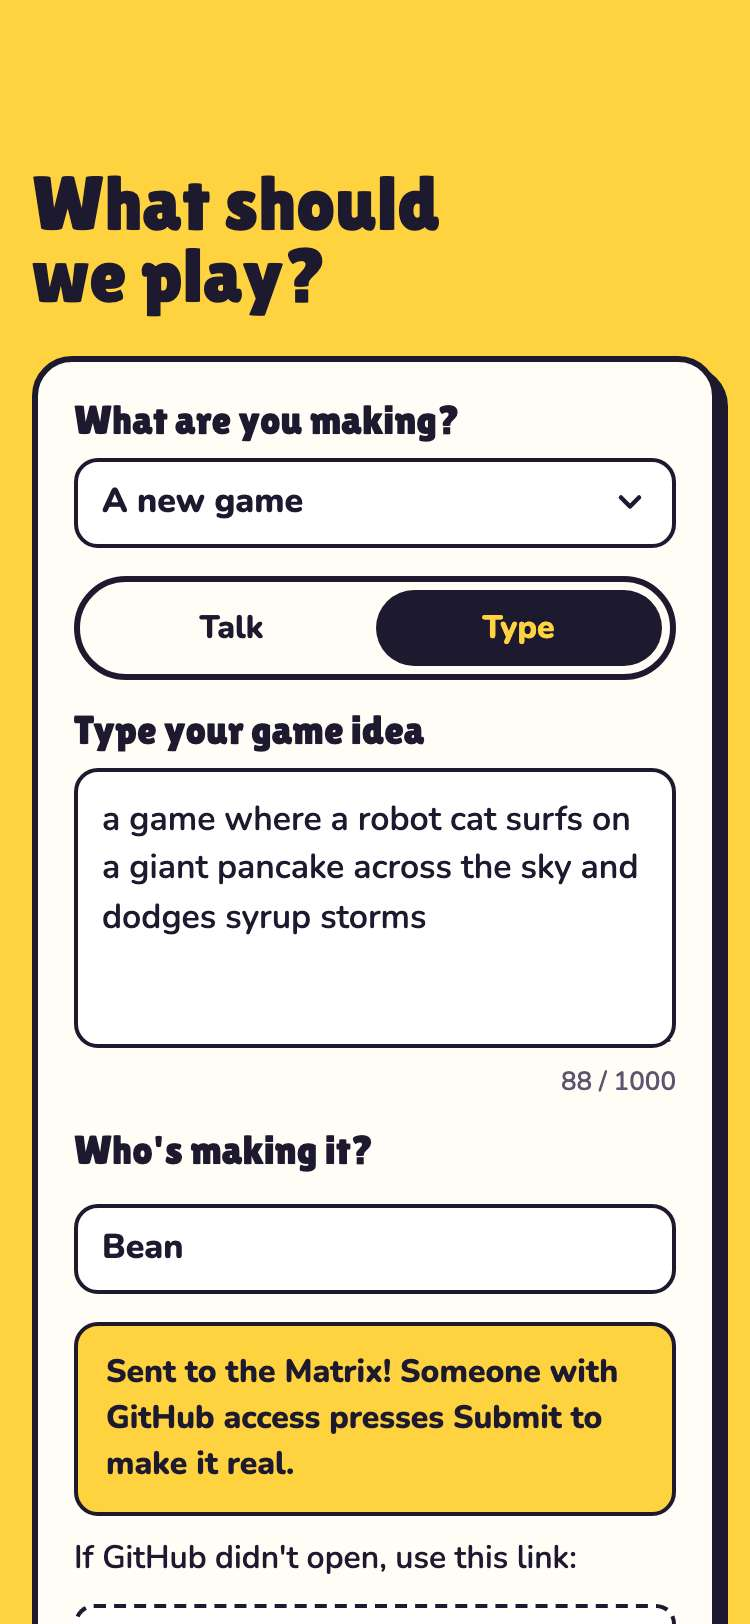
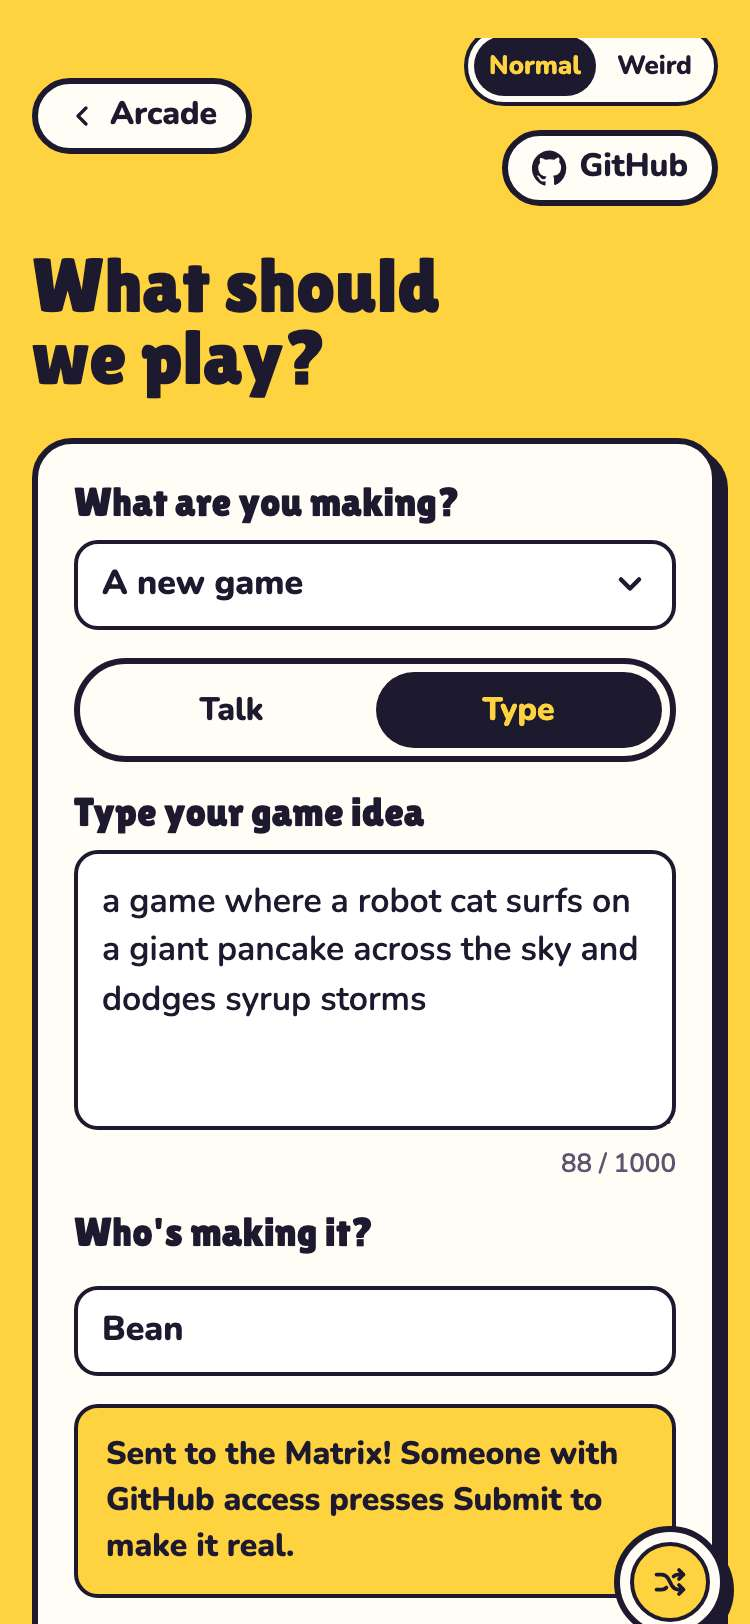
Turn on the idea intake, with family codes off for now

diff --git a/evidence/82-intake-page/index.html b/evidence/82-intake-page/index.html
@@ -14,13 +14,15 @@ h1 { font-size: 24px; margin: 0 0 4px; } h2 { font-size: 19px; margin: 28px 0 6p
 .pair img.desktop { width: 640px; } .pair img.phone { width: 220px; }
 </style></head><body>
 <h1>Evidence: 82-intake-page</h1>
-<p class="head">PASS: 7 of 7 checks pass at desktop and phone widths.</p>
-<p class="meta">Against the local server (python3 -m http.server) on this branch, from commit 80cfec5, 2026-10-25 01:54 UTC. Spec: tests/evidence/82-intake-page.spec.mjs.</p>
+<p class="head">PASS: 9 of 9 checks pass at desktop and phone widths.</p>
+<p class="meta">Against the local server (python3 -m http.server) on this branch, from commit b2feae2, 2026-10-25 02:38 UTC. Spec: tests/evidence/82-intake-page.spec.mjs.</p>
 <section><h2>1. with a family code, Send posts the idea and the code, and it shows as Just sent</h2><p><span class="s ok">Desktop 1280: pass</span> <span class="s ok">Phone 375: pass</span></p><ul><li>desktop: body sent: {&quot;idea&quot;:&quot;&lt;idea&gt;&quot;,&quot;maker&quot;:&quot;Bean&quot;,&quot;told_by&quot;:&quot;typing&quot;,&quot;code&quot;:&quot;test-family-code-1&quot;}</li><li>phone: body sent: {&quot;idea&quot;:&quot;&lt;idea&gt;&quot;,&quot;maker&quot;:&quot;Bean&quot;,&quot;told_by&quot;:&quot;typing&quot;,&quot;code&quot;:&quot;test-family-code-1&quot;}</li></ul><div class="pair"><a href="family-code-desktop.jpg"><img class="desktop" src="family-code-desktop.jpg" alt="with a family code, Send posts the idea and the code, and it shows as Just sent: family-code-desktop.jpg" loading="lazy"></a><a href="family-code-phone.jpg"><img class="phone" src="family-code-phone.jpg" alt="with a family code, Send posts the idea and the code, and it shows as Just sent: family-code-phone.jpg" loading="lazy"></a></div><div class="pair"><a href="sent-known-desktop.jpg"><img class="desktop" src="sent-known-desktop.jpg" alt="with a family code, Send posts the idea and the code, and it shows as Just sent: sent-known-desktop.jpg" loading="lazy"></a><a href="sent-known-phone.jpg"><img class="phone" src="sent-known-phone.jpg" alt="with a family code, Send posts the idea and the code, and it shows as Just sent: sent-known-phone.jpg" loading="lazy"></a></div></section>
 <section><h2>2. the family code is remembered on this device until a grown-up forgets it</h2><p><span class="s ok">Desktop 1280: pass</span> <span class="s ok">Phone 375: pass</span></p><ul><li>desktop: saved as gameon.arcade.familyCode; still there after a reload</li><li>phone: saved as gameon.arcade.familyCode; still there after a reload</li></ul><div class="pair"><a href="code-remembered-desktop.jpg"><img class="desktop" src="code-remembered-desktop.jpg" alt="the family code is remembered on this device until a grown-up forgets it: code-remembered-desktop.jpg" loading="lazy"></a><a href="code-remembered-phone.jpg"><img class="phone" src="code-remembered-phone.jpg" alt="the family code is remembered on this device until a grown-up forgets it: code-remembered-phone.jpg" loading="lazy"></a></div></section>
 <section><h2>3. without a code, the robot check shows and its token is sent instead</h2><p><span class="s ok">Desktop 1280: pass</span> <span class="s ok">Phone 375: pass</span></p><ul><li>desktop: body sent: {&quot;idea&quot;:&quot;&lt;idea&gt;&quot;,&quot;maker&quot;:&quot;Zed&quot;,&quot;told_by&quot;:&quot;typing&quot;,&quot;turnstile&quot;:&quot;fake-turnstile-token&quot;}</li><li>phone: body sent: {&quot;idea&quot;:&quot;&lt;idea&gt;&quot;,&quot;maker&quot;:&quot;Zed&quot;,&quot;told_by&quot;:&quot;typing&quot;,&quot;turnstile&quot;:&quot;fake-turnstile-token&quot;}</li></ul><div class="pair"><a href="robot-check-desktop.jpg"><img class="desktop" src="robot-check-desktop.jpg" alt="without a code, the robot check shows and its token is sent instead: robot-check-desktop.jpg" loading="lazy"></a><a href="robot-check-phone.jpg"><img class="phone" src="robot-check-phone.jpg" alt="without a code, the robot check shows and its token is sent instead: robot-check-phone.jpg" loading="lazy"></a></div><div class="pair"><a href="sent-unknown-desktop.jpg"><img class="desktop" src="sent-unknown-desktop.jpg" alt="without a code, the robot check shows and its token is sent instead: sent-unknown-desktop.jpg" loading="lazy"></a><a href="sent-unknown-phone.jpg"><img class="phone" src="sent-unknown-phone.jpg" alt="without a code, the robot check shows and its token is sent instead: sent-unknown-phone.jpg" loading="lazy"></a></div></section>
 <section><h2>4. an update idea sends the game and version too</h2><p><span class="s ok">Desktop 1280: pass</span> <span class="s ok">Phone 375: pass</span></p></section>
 <section><h2>5. refusals read in plain kid-friendly words, and a wrong code is forgotten</h2><p><span class="s ok">Desktop 1280: pass</span> <span class="s ok">Phone 375: pass</span></p><ul><li>desktop: 3 tries: daily limit, wrong code, no internet</li><li>phone: 3 tries: daily limit, wrong code, no internet</li></ul><div class="pair"><a href="refused-desktop.jpg"><img class="desktop" src="refused-desktop.jpg" alt="refusals read in plain kid-friendly words, and a wrong code is forgotten: refused-desktop.jpg" loading="lazy"></a><a href="refused-phone.jpg"><img class="phone" src="refused-phone.jpg" alt="refusals read in plain kid-friendly words, and a wrong code is forgotten: refused-phone.jpg" loading="lazy"></a></div></section>
 <section><h2>6. the idea line reads /queue, never GitHub, and shows no idea words</h2><p><span class="s ok">Desktop 1280: pass</span> <span class="s ok">Phone 375: pass</span></p><ul><li>desktop: 4 ideas from GET /queue; 0 requests to api.github.com</li><li>phone: 4 ideas from GET /queue; 0 requests to api.github.com</li></ul><div class="pair"><a href="idea-line-desktop.jpg"><img class="desktop" src="idea-line-desktop.jpg" alt="the idea line reads /queue, never GitHub, and shows no idea words: idea-line-desktop.jpg" loading="lazy"></a><a href="idea-line-phone.jpg"><img class="phone" src="idea-line-phone.jpg" alt="the idea line reads /queue, never GitHub, and shows no idea words: idea-line-phone.jpg" loading="lazy"></a></div></section>
-<section><h2>7. with no intake configured, the page is the Phase 0 page</h2><p><span class="s ok">Desktop 1280: pass</span> <span class="s ok">Phone 375: pass</span></p><ul><li>desktop: Send opens GitHub's Game idea form; the idea line reads the GitHub API</li><li>phone: Send opens GitHub's Game idea form; the idea line reads the GitHub API</li></ul><div class="pair"><a href="unconfigured-desktop.jpg"><img class="desktop" src="unconfigured-desktop.jpg" alt="with no intake configured, the page is the Phase 0 page: unconfigured-desktop.jpg" loading="lazy"></a><a href="unconfigured-phone.jpg"><img class="phone" src="unconfigured-phone.jpg" alt="with no intake configured, the page is the Phase 0 page: unconfigured-phone.jpg" loading="lazy"></a></div></section>
+<section><h2>7. the committed config points at the live Worker, with family codes off</h2><p><span class="s ok">Desktop 1280: pass</span> <span class="s ok">Phone 375: pass</span></p><ul><li>desktop: new/intake-config.js: url https://gameon-intake.jwildfire.workers.dev, the public Turnstile site key, familyCodes false</li><li>phone: new/intake-config.js: url https://gameon-intake.jwildfire.workers.dev, the public Turnstile site key, familyCodes false</li></ul></section>
+<section><h2>8. with family codes off, there's no code field and every idea goes through the robot check</h2><p><span class="s ok">Desktop 1280: pass</span> <span class="s ok">Phone 375: pass</span></p><ul><li>desktop: familyCodes: false hides the code field, ignores a code saved earlier, shows the robot check, and sends its token with no code</li><li>phone: familyCodes: false hides the code field, ignores a code saved earlier, shows the robot check, and sends its token with no code</li></ul><div class="pair"><a href="codes-off-desktop.jpg"><img class="desktop" src="codes-off-desktop.jpg" alt="with family codes off, there's no code field and every idea goes through the robot check: codes-off-desktop.jpg" loading="lazy"></a><a href="codes-off-phone.jpg"><img class="phone" src="codes-off-phone.jpg" alt="with family codes off, there's no code field and every idea goes through the robot check: codes-off-phone.jpg" loading="lazy"></a></div></section>
+<section><h2>9. with no intake configured, the page is the Phase 0 page</h2><p><span class="s ok">Desktop 1280: pass</span> <span class="s ok">Phone 375: pass</span></p><ul><li>desktop: Send opens GitHub's Game idea form; the idea line reads the GitHub API</li><li>phone: Send opens GitHub's Game idea form; the idea line reads the GitHub API</li></ul><div class="pair"><a href="unconfigured-desktop.jpg"><img class="desktop" src="unconfigured-desktop.jpg" alt="with no intake configured, the page is the Phase 0 page: unconfigured-desktop.jpg" loading="lazy"></a><a href="unconfigured-phone.jpg"><img class="phone" src="unconfigured-phone.jpg" alt="with no intake configured, the page is the Phase 0 page: unconfigured-phone.jpg" loading="lazy"></a></div></section>
 </body></html>

diff --git a/new/index.html b/new/index.html
@@ -236,6 +236,7 @@ html[data-mode="weird"] h1 { justify-self: start; background: var(--card); borde
   var CFG = window.GAMEON_INTAKE || {};
   var INTAKE = typeof CFG.url === "string" ? CFG.url.trim().replace(/\/+$/, "") : "";
   var SITE_KEY = INTAKE && typeof CFG.turnstileSiteKey === "string" ? CFG.turnstileSiteKey.trim() : "";
+  var CODES = INTAKE && CFG.familyCodes !== false;   // familyCodes: false hides the code field; every idea waits for a grown-up
   var CODE_KEY = "gameon.arcade.familyCode";
   var MAX_WORDS = 1000, CAP = INTAKE ? 10000 : MAX;   // the intake counts words, not characters
 
@@ -459,11 +460,12 @@ html[data-mode="weird"] h1 { justify-self: start; background: var(--card); borde
   var robotToken = "", robotId = null;
   var SEND_LABEL = send.textContent;
 
-  function loadCode() { try { return localStorage.getItem(CODE_KEY) || ""; } catch (e) { return ""; } }
+  function loadCode() { if (!CODES) return ""; try { return localStorage.getItem(CODE_KEY) || ""; } catch (e) { return ""; } }
   function saveCode(c) { try { if (c) localStorage.setItem(CODE_KEY, c); else localStorage.removeItem(CODE_KEY); } catch (e) {} }
 
   function showFamily() {
     if (!INTAKE) return;
+    if (!CODES) { family.hidden = true; showRobot(); return; }
     var code = loadCode();
     family.hidden = false;
     familySaved.hidden = !code;
@@ -545,8 +547,8 @@ html[data-mode="weird"] h1 { justify-self: start; background: var(--card); borde
 
   if (INTAKE) {
     idea.maxLength = CAP;
-    $("step-send").textContent = "Send it to the Matrix. Ideas without a family code wait for a grown-up.";
-    $("submit-help").textContent = "For grown-ups: type your family code once and this device remembers it. Ideas sent without one still go in, and wait for a grown-up to say yes before anything is built.";
+    $("step-send").textContent = CODES ? "Send it to the Matrix. Ideas without a family code wait for a grown-up." : "Send it to the Matrix. A grown-up says yes before anything is built.";
+    $("submit-help").textContent = CODES ? "For grown-ups: type your family code once and this device remembers it. Ideas sent without one still go in, and wait for a grown-up to say yes before anything is built." : "Every idea waits for a grown-up to say yes before anything is built.";
   }
 
   // ---------- The idea line ----------

diff --git a/new/intake-config.js b/new/intake-config.js
@@ -3,6 +3,7 @@
 // Both values are public: the url is the Worker's address, and the site key is
 // Turnstile's public key (its secret lives only in the Worker).
 window.GAMEON_INTAKE = {
-  url: "",              // e.g. "https://gameon-intake.<subdomain>.workers.dev"
-  turnstileSiteKey: "0x4AAAAAAFkrw2xvlaI5TKLD"  // Turnstile, for ideas sent without a family code; used only once url is set
+  url: "https://gameon-intake.jwildfire.workers.dev",
+  turnstileSiteKey: "0x4AAAAAAFkrw2xvlaI5TKLD", // Turnstile, for ideas sent without a family code
+  familyCodes: false    // no family codes yet (Jeremy, 2026-10-24): no code field, every idea waits for a grown-up
 };

diff --git a/evidence/82-intake-page/README.md b/evidence/82-intake-page/README.md
@@ -1,8 +1,8 @@
 # Evidence: 82-intake-page
 
-**PASS: 7 of 7 checks pass at desktop and phone widths.**
+**PASS: 9 of 9 checks pass at desktop and phone widths.**
 
-Generated by `npm run evidence -- 82-intake-page` from [`tests/evidence/82-intake-page.spec.mjs`](../../tests/evidence/82-intake-page.spec.mjs) against the local server (python3 -m http.server) on this branch, starting from commit 80cfec5, 2026-10-25 01:54 UTC. Rules: [docs/evidence.md](../../docs/evidence.md).
+Generated by `npm run evidence -- 82-intake-page` from [`tests/evidence/82-intake-page.spec.mjs`](../../tests/evidence/82-intake-page.spec.mjs) against the local server (python3 -m http.server) on this branch, starting from commit b2feae2, 2026-10-25 02:38 UTC. Rules: [docs/evidence.md](../../docs/evidence.md).
 
 | Check | Desktop 1280 | Phone 375 |
 |---|---|---|
@@ -12,6 +12,8 @@ Generated by `npm run evidence -- 82-intake-page` from [`tests/evidence/82-intak
 | an update idea sends the game and version too | pass | pass |
 | refusals read in plain kid-friendly words, and a wrong code is forgotten | pass | pass |
 | the idea line reads /queue, never GitHub, and shows no idea words | pass | pass |
+| the committed config points at the live Worker, with family codes off | pass | pass |
+| with family codes off, there's no code field and every idea goes through the robot check | pass | pass |
 | with no intake configured, the page is the Phase 0 page | pass | pass |
 
 ## 1. with a family code, Send posts the idea and the code, and it shows as Just sent
@@ -55,7 +57,19 @@ Generated by `npm run evidence -- 82-intake-page` from [`tests/evidence/82-intak
 
 <img src="idea-line-desktop.jpg" alt="the idea line reads /queue, never GitHub, and shows no idea words: idea-line-desktop.jpg" width="560"> <img src="idea-line-phone.jpg" alt="the idea line reads /queue, never GitHub, and shows no idea words: idea-line-phone.jpg" width="240">
 
-## 7. with no intake configured, the page is the Phase 0 page
+## 7. the committed config points at the live Worker, with family codes off
+
+- desktop: new/intake-config.js: url https://gameon-intake.jwildfire.workers.dev, the public Turnstile site key, familyCodes false
+- phone: new/intake-config.js: url https://gameon-intake.jwildfire.workers.dev, the public Turnstile site key, familyCodes false
+
+## 8. with family codes off, there's no code field and every idea goes through the robot check
+
+- desktop: familyCodes: false hides the code field, ignores a code saved earlier, shows the robot check, and sends its token with no code
+- phone: familyCodes: false hides the code field, ignores a code saved earlier, shows the robot check, and sends its token with no code
+
+<img src="codes-off-desktop.jpg" alt="with family codes off, there's no code field and every idea goes through the robot check: codes-off-desktop.jpg" width="560"> <img src="codes-off-phone.jpg" alt="with family codes off, there's no code field and every idea goes through the robot check: codes-off-phone.jpg" width="240">
+
+## 9. with no intake configured, the page is the Phase 0 page
 
 - desktop: Send opens GitHub's Game idea form; the idea line reads the GitHub API
 - phone: Send opens GitHub's Game idea form; the idea line reads the GitHub API
